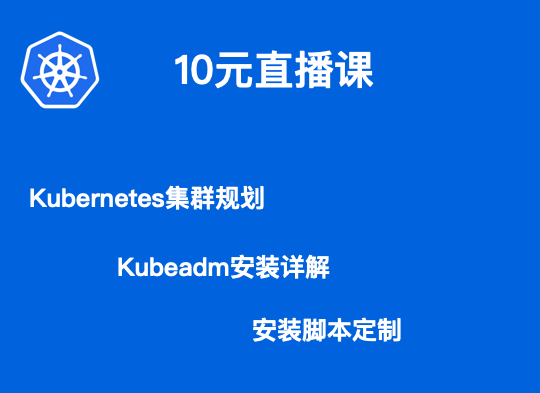
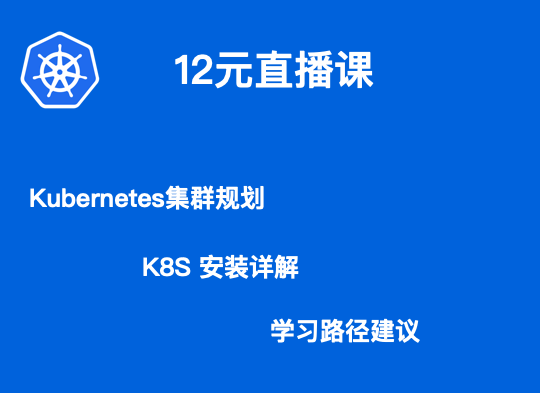
1.0.6-beta.6

Changed region(s): [[0.2074, 0.6412, 0.6222, 0.7328], [0.4741, 0.7939, 0.7704, 0.8855], [0.3556, 0.1527, 0.4148, 0.2137]]

diff --git a/.vuepress/comp/Course.vue b/.vuepress/comp/Course.vue
@@ -1,0 +1,71 @@
+<template>
+  <div v-if="course">
+    <div class="school">
+      <a
+        :href="course.href"
+        target="_blank"
+        :title="course.description"
+      >{{ course.title ? course.title : '观看本节视频讲解'}}</a>
+    </div>
+  </div>
+  <div v-else>配置信息不存在</div>
+</template>
+
+<script>
+import courses from './course-index.js'
+
+export default {
+  props: {
+    courseId: { type: String, required: true }
+  },
+  data() {
+    let course = courses[this.courseId]
+    if (course) {
+      if (course.type === undefined) {
+        course.type = '直播/回看'
+      }
+    }
+    return {
+      course: course,
+    }
+  }
+}
+</script>
+
+<style scoped>
+.school {
+  background-color: #e7ecf3;
+  padding: 1em 1.25em;
+  border-radius: 2px;
+  color: #486491;
+  position: relative;
+}
+.school a {
+  color: #486491 !important;
+  position: relative;
+  padding-left: 36px;
+}
+.school a:before {
+  content: '';
+  position: absolute;
+  display: block;
+  width: 30px;
+  height: 30px;
+  top: -5px;
+  left: -4px;
+  border-radius: 50%;
+  background-color: #73abfe;
+}
+.school a:after {
+  content: '';
+  position: absolute;
+  display: block;
+  width: 0;
+  height: 0;
+  top: 5px;
+  left: 8px;
+  border-top: 5px solid transparent;
+  border-bottom: 5px solid transparent;
+  border-left: 8px solid #fff;
+}
+</style>

diff --git a/.vuepress/theme/components/Page.vue b/.vuepress/theme/components/Page.vue
@@ -24,8 +24,8 @@
           </li>
         </div>
         <div class="col-md-2">
-          <a href="https://kubetrain.cn/?from=page-top" target="_blank">
-            <FancyImage src="/images/courses/intermediate.png" title="K8S高薪培训" description="360讲师授课" alt="K8S培训_高薪培训" type="Rectangle"/>
+          <a href="https://ke.qq.com/course/477593?flowToken=1017366" target="_blank">
+            <FancyImage src="/images/courses/kubeadm.png" title="K8S高薪培训" description="360讲师授课" alt="K8S培训_高薪培训" type="Rectangle"/>
           </a>
         </div>
       </div>

diff --git a/.vuepress/comp/index.js b/.vuepress/comp/index.js
@@ -1,5 +1,6 @@
 let components = [
-  { name: 'LearningPlan', component: () => import(`./LearningPlan.vue`) }
+  { name: 'LearningPlan', component: () => import(`./LearningPlan.vue`) },
+  { name: 'Course', component: () => import(`./Course.vue`) }
 ]
 
 export default function (Vue) {

diff --git a/.vuepress/comp/course-index.js b/.vuepress/comp/course-index.js
@@ -1,0 +1,7 @@
+module.exports = {
+  '477593': {
+    description: '使用kubeadm安装kubernetes集群',
+    href: 'https://ke.qq.com/course/477593?flowToken=1016936',
+    price: '12',
+  }
+}

diff --git a/learning/README.md b/learning/README.md
@@ -12,26 +12,26 @@ meta:
 # Kubernetes教程
 
 <div class="row">
-  <div class="col-md-3 col-sm-12" style="margin-top: 1rem;">
+  <!-- <div class="col-md-4 col-sm-12" style="margin-top: 1rem;">
     <a href="#kubernetes免费教程">
       <FancyImage src="/images/courses/free.png" title="免费教程" description="kubernetes.io权威资料，kuboard翻译" alt="K8S培训_免费教程" type="SlideLeft2Right"/>
     </a>
   </div>
-  <div class="col-md-3 col-sm-12" style="margin-top: 1rem;">
+  <div class="col-md-4 col-sm-12" style="margin-top: 1rem;">
     <a href="https://ke.qq.com/course/477593?flowToken=1016936" target="_blank">
-      <FancyImage src="/images/courses/kubeadm.png" title="10元直播课" description="安装详解 / 集群规划" alt="K8S培训" type="SlideLeft2Right"/>
+      <FancyImage src="/images/courses/kubeadm.png" title="12元直播课" description="安装详解 / 集群规划" alt="K8S培训" type="SlideLeft2Right"/>
     </a>
   </div>
-  <div class="col-md-3 col-sm-12" style="margin-top: 1rem;">
+   <div class="col-md-4 col-sm-12" style="margin-top: 1rem;">
     <a href="https://kubetrain.cn/?from=learning" target="_blank">
-      <FancyImage src="/images/courses/intermediate.png" title="K8S高薪培训" description="360讲师授课" alt="K8S培训_高薪培训" type="Cross"/>
+      <FancyImage src="/images/courses/intermediate.png" title="K8S高薪培训" description="不满意无条件退费" alt="K8S培训_高薪培训" type="Cross"/>
     </a>
-  </div>
-  <div class="col-md-3 col-sm-12" style="margin-top: 1rem;">
+  </div> -->
+  <!--<div class="col-md-3 col-sm-12" style="margin-top: 1rem;">
     <a href="https://kubetrain.cn/advanced.html?from=learning" target="_blank">
       <FancyImage src="/images/courses/advanced.png" title="K8S高级班" description="360讲师授课" alt="K8S培训_高薪培训" type="Rectangle"/>
     </a>
-  </div>
+  </div> -->
 </div>
 
 ## Kubernetes免费教程
@@ -41,27 +41,6 @@ meta:
 * 学习过 Kubernetes，但在投产过程中仍有诸多疑虑和困惑的技术爱好者
 
 根据实际反馈，有很大比例的用户参考 kuboard.cn 网站后，能够在 1 个月内完成 Kubernetes 上的微服务落地工作。
-
-<!-- 推荐自学能力强的同学选择免费教程，这里有来自 kubernetes.io 的权威资料，同时结合 Kuboard 作者的实战经验，已有证据证明，Kuboard 有许多用户能够在一个月左右时间 **从Kubernetes入门到投产**。
-
-同时，Kuboard 与资深 Kubernetes 运维工程师/布道者合作，为大家带来直播课程，可以更深入系统地学习 K8S。[Kubernetes中级班](https://kubetrain.cn/?from=learning-free) 由 360 资深运维工程师阿良为您直播讲解。直播课程的优势如下：
-* 360 大厂一线实战经验
-* 专属学员答疑群
-* 优秀学员内推机会
-* 不满意无条件退费
-
-对于有意向在运维/架构领域更深入发展的同学，还可以考虑课程 [Kuberentes高级班](https://kubetrain.cn/?from=learning-free)。高级班的主要内容如下：
-* K8S弹性伸缩
-* K8S网络深入解析
-* Ceph存储
-* 微服务自动化发布（Spring Cloud & Jenkins CI/CD） -->
-
-
-<!-- <div style="background-color: #0063dc;">
-  <div style="max-width: 363px; margin: auto;">
-    <img src="/images/logo-main.png" style="background-color: #0063dc; max-width: 100%;" alt="Kubernetes管理界面：Kuboard Logo"/>
-  </div>
-</div> -->
 
 ## **Kubernetes 介绍**
 
@@ -75,6 +54,8 @@ meta:
     * 使用 Kuboard，无需编写复杂冗长的 YAML 文件，就可以轻松管理 Kubernetes 集群。
   * [创建 busybox](/guide/example/busybox.html) （10分钟）
     * 快速在 Kubernetes 集群中安装一个部署，并与当中的容器组交互。
+
+<Course courseId="477593" />
 
 
 ## **Kubernetes 入门**

diff --git a/support/change-log/v1.0.x.md b/support/change-log/v1.0.x.md
@@ -10,11 +10,58 @@ description: 本文描述了Kuboard_v1.0.x的版本变更说明
 了解如何 [升级Kuboard](/install/install-dashboard-upgrade.html)
 
 * eipwork/kuboard:<span style="font-weight: 800; color: #007af5">latest</span> 当前对应的版本是 kuboard <span style="font-weight: 800; color: #007af5">v1.0.5.4</span>
-* eipwork/kuboard:<span style="font-weight: 800; color: #42b983">beta</span> 当前对应的版本是 kuboard <span style="font-weight: 800; color: #42b983">v1.0.6-beta.3</span>
+* eipwork/kuboard:<span style="font-weight: 800; color: #42b983">beta</span> 当前对应的版本是 kuboard <span style="font-weight: 800; color: #42b983">v1.0.6-beta.6</span>
 
 Kuboard v1.0.x 的更新说明
 
+## v1.0.6-beta.6
+
+**发布日期**
+
+2020年1月23日
+
+**新特性**
+* 工作负载编辑界面
+  * 容器信息 --> ports
+  * 基本信息 --> 创建工作负载时可增加注解
+* 工作负载查看界面
+  * 容器更多信息 --> ports、args
+  * 基本信息 --> 可修改注解
+* 角色 Role
+  * 支持按 fieldSelector 和 labelSelector 查询角色列表
+  * 支持创建 Role
+  * 支持修改 Role 的资源
+  * 支持将 Role 关联到 ServiceAccount
+* 集群角色 ClusterRole
+  * 支持按 fieldSelector 和 labelSelector 查询角色列表
+  * 支持创建 ClusterRole
+  * 支持修改 ClusterRole 的资源
+  * 支持将 ClusterRole 关联到 ServiceAccount （RoleBinding及ClusterRoleBinding）
+* SelfInfo 页面 --> 获取 Kubectl 的配置文件
+
+**优化**
+* 监控套件安装
+  * 安装全局监控套件时，提示创建 etcd-secrets
+  * 完成套件安装后，延迟120秒才能初始化
+  * 完成套件的安装后，点确定可以返回套件列表页
+  * 显示套件的帮助链接
+* 容器组列表页 --> 通过 fieldSelector / labelSelector 查询容器组列表
+* 安装 metrics-server 后，等待 metrics-server 启动成功
+* 不再支持 Kubernetes v1.12 及以下版本
+* 工作负载查看界面
+  * 下载日志时，最大下载大小为 50 Mb
+
+**Bug修复**
+* 安装套件 --> https://addons.kuboard.cn/index/repository.json 这个文件不应该使用本地缓存的内容
+* 导入工作负载 --> 存储卷声明模板时的表单校验
+* 节点界面 --> 修复Pod的内存限制单位 Gi -- Mi 转换问题
+* 登录界面 --> secretName 显示错误
+
 ## v1.0.6-beta.5
+
+**发布日期**
+
+2020年1月19日
 
 **新特性**
 * ServiceAccount详情页 --> 使用 ServiceAccount 的 Token 访问 kubectl
@@ -29,6 +76,10 @@ Kuboard v1.0.x 的更新说明
   * 此问题的具体表现：部分使用 helm 创建的工作负载不能在Kuboard上显示，原因是Deployment、StatefulSet或DaemonSet中没有 annotations 信息
 
 ## v1.0.6-beta.4
+
+**发布日期**
+
+2020年1月10日
 
 **新特性**
 * 按条件查询ClusterRole列表

diff --git a/install/install-k8s.md b/install/install-k8s.md
@@ -20,13 +20,13 @@ meta:
 
 参考此免费文档，98%以上的概率，您能够顺利完成 K8S 安装，极个别的问题可以到QQ群里免费答疑。
 
-此课程配有直播视频讲解，点击此处可 [报名12元直播课程](https://ke.qq.com/course/477593?flowToken=1016935)
+<Course courseId="477593" />
+<!-- 此课程配有直播视频讲解，点击此处可 [报名12元直播课程](https://ke.qq.com/course/477593?flowToken=1016935)
 * 讲解K8S集群规划
 * 以更加直观易于理解的形式讲解此安装过程
 * 介绍K8S学习路径
 * 报名学员如碰到安装问题，可获得远程协助
-
-> 第一次直播课已经于1月18日完成，现在 [报名]((https://ke.qq.com/course/477593?flowToken=1016935)) 可以随时看回看，如需要，还可在2月8日免费再听一次直播。
+> 第一次直播课已经于1月18日完成，现在 [报名]((https://ke.qq.com/course/477593?flowToken=1016935)) 可以随时看回看，如需要，还可在2月8日免费再听一次直播。 -->
 
 
 ## 配置要求
@@ -516,7 +516,7 @@ kubectl delete -f https://kuboard.cn/install-script/v1.17.x/nginx-ingress.yaml
 
 您已经完成了 Kubernetes 集群的安装，下一步请：
 
-[报名12元直播课程-详细讲解此安装过程](https://ke.qq.com/course/477593?flowToken=1016934)
+<Course courseId="477593" />
 
 <span v-on:click="$sendGaEvent('安装后求GitHub Star','安装后求GitHub Star','安装后求GitHub Star')"><a href="https://github.com/eip-work/kuboard-press" target="_blank">点击此处，给个GitHub Star</a></span>
 支持一下吧，<StarCount></StarCount>这么多人都 star 了呢，怎么能少得了您呢？

diff --git a/support/change-log/change-log-on-the-way.md b/support/change-log/change-log-on-the-way.md
@@ -1,23 +1,14 @@
 Kuboard v1.0.x 的更新说明
 
-## v1.0.6-beta.5
 
-**新特性**
-* ServiceAccount详情页 --> 使用 ServiceAccount 的 Token 访问 kubectl
-
-**优化**
-* ServiceAccount列表页 --> 按名称、标签搜索
-* ServiceAccount详情页 --> 删除ServiceAccount时，同时删除关联的 RoleBinding/ClusterRoleBinding
-
-**Bug修复**
-* Secret对话框 --> 创建Secret时，不显示内容区
-* 名称空间页 --> StatefulSet如果没有 annotations 时，不能在名称空间页上显示
-  * 此问题的具体表现：部分使用 helm 创建的工作负载不能在Kuboard上显示，原因是Deployment、StatefulSet或DaemonSet中没有 annotations 信息
 
 ------------------
+* 按名称空间查看 Events
+* 按名称空间查看 top pods
+* 修改 metadata.labels
+* 支持 Headless Service
 
-* 安装文档中，去除 IngressController 的链接
-
+* 安装文档中，将 daocloud 的镜像地址修改为阿里云的镜像地址
 * 日志界面支持 ctrl + F
 * 更新版本时，可以通过下拉列表选择仓库中的版本号
 * 导入导出时，需要支持 nfs 等类型的数据卷
@@ -46,8 +37,6 @@ Kuboard v1.0.x 的更新说明
 * 存储卷声明去掉分配模式的字段
 * 删除容器组时 - graceful period
 * Pod Conditions: lastProbeTime/reason/message
-* 按名称空间查看 Events
 * 显示 Deployment/StatefulSet/DaemonSet 的事件
 * 控制台/日志界面，按 名称空间/工作负载/Pod/容器 进行切换
-* hostPort
 * StatefulSet 在 available 数与 replicas 数不一致时，链接到帮助提示
